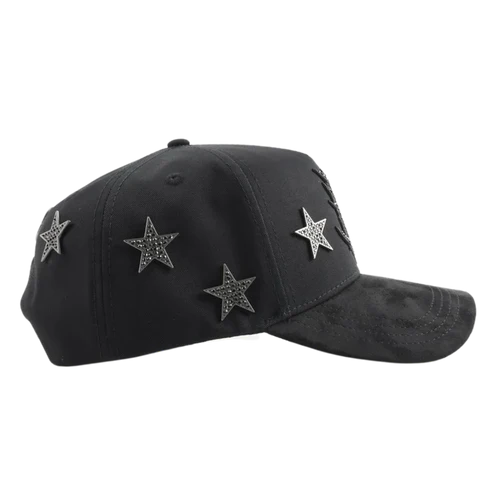
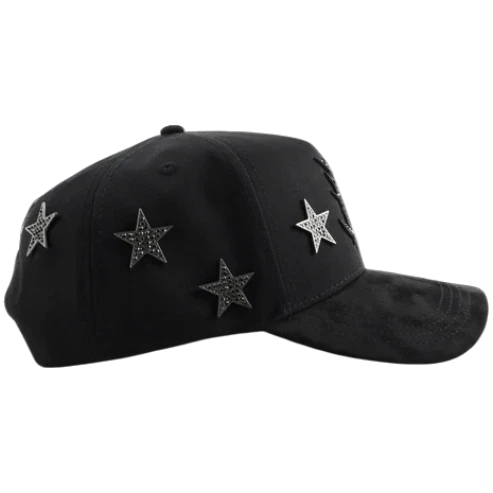
AVANCE IMAGENES

diff --git a/js/main.js b/js/main.js
@@ -8,7 +8,7 @@ const marcas = {
     modelos: [
       { id: 'B1', nombre: 'EL BARBAS HATS X CT - CHROME I (LAST EDITION) ', precio: '₡25.000', foto: 'assets/images/gorras/B1D.webp', fotos: ['assets/images/gorras/B1D.webp','assets/images/gorras/B3IZ.webp','assets/images/gorras/B2L.webp'] },
       { id: 'B2', nombre: 'BARBAS PREMIUM 2.0 — DARK NEBULA', precio: '₡25.000', foto: 'assets/images/gorras/B2FPPPP.webp', fotos: ['assets/images/gorras/B2FPPPP.webp','assets/images/gorras/B2LI.webp','assets/images/gorras/B2LD.webp'] },
-      { id: 'B3', nombre: 'Barbas B3', precio: '₡25.000', foto: 'assets/images/gorras/barbas/B3/portada.jpg', fotos: ['assets/images/gorras/barbas/B3/foto1.jpg','assets/images/gorras/barbas/B3/foto2.jpg','assets/images/gorras/barbas/B3/foto3.jpg'] },
+      { id: 'B3', nombre: 'BARBAS HATS - HEARTBREAK WILITO', precio: '₡25.000', foto: 'assets/images/gorras/B3FFF.webp', fotos: ['assets/images/gorras/B3FFF.webp','assets/images/gorras/B3L.webp','assets/images/gorras/B3A.webp'] },
       { id: 'B4', nombre: 'Barbas B4', precio: '₡25.000', foto: 'assets/images/gorras/barbas/B4/portada.jpg', fotos: ['assets/images/gorras/barbas/B4/foto1.jpg','assets/images/gorras/barbas/B4/foto2.jpg','assets/images/gorras/barbas/B4/foto3.jpg'] },
       { id: 'B5', nombre: 'Barbas B5', precio: '₡25.000', foto: 'assets/images/gorras/barbas/B5/portada.jpg', fotos: ['assets/images/gorras/barbas/B5/foto1.jpg','assets/images/gorras/barbas/B5/foto2.jpg','assets/images/gorras/barbas/B5/foto3.jpg'] },
       { id: 'B6', nombre: 'Barbas B6', precio: '₡25.000', foto: 'assets/images/gorras/barbas/B6/portada.jpg', fotos: ['assets/images/gorras/barbas/B6/foto1.jpg','assets/images/gorras/barbas/B6/foto2.jpg','assets/images/gorras/barbas/B6/foto3.jpg'] },